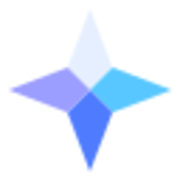
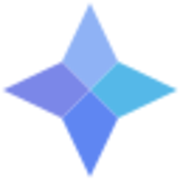
fav

Changed region(s): [[0.0278, 0.0278, 1.0, 1.0]]

diff --git a/_includes/head.html b/_includes/head.html
@@ -8,9 +8,9 @@
   <link rel="preload" href="{{ "/assets/fonts/InterVariable.woff2" | relative_url }}" as="font" type="font/woff2" crossorigin>
   <link rel="preload" href="{{ "/assets/fonts/JetBrainsMono-Regular.woff2" | relative_url }}" as="font" type="font/woff2" crossorigin>
   <link rel="stylesheet" href="{{ "/assets/main.css" | relative_url }}">
-  <link rel="icon" href="{{ "/assets/favicon.svg" | relative_url }}?v=star-vivid" type="image/svg+xml">
-  <link rel="icon" href="{{ "/assets/favicon-32.png" | relative_url }}?v=star-vivid" type="image/png" sizes="32x32">
-  <link rel="apple-touch-icon" href="{{ "/assets/apple-touch-icon.png" | relative_url }}?v=star-vivid" sizes="180x180">
+  <link rel="icon" href="{{ "/assets/favicon.svg" | relative_url }}?v=star-bold" type="image/svg+xml">
+  <link rel="icon" href="{{ "/assets/favicon-32.png" | relative_url }}?v=star-bold" type="image/png" sizes="32x32">
+  <link rel="apple-touch-icon" href="{{ "/assets/apple-touch-icon.png" | relative_url }}?v=star-bold" sizes="180x180">
   <meta name="theme-color" content="#080b11">
 
   {% unless page.image %}
